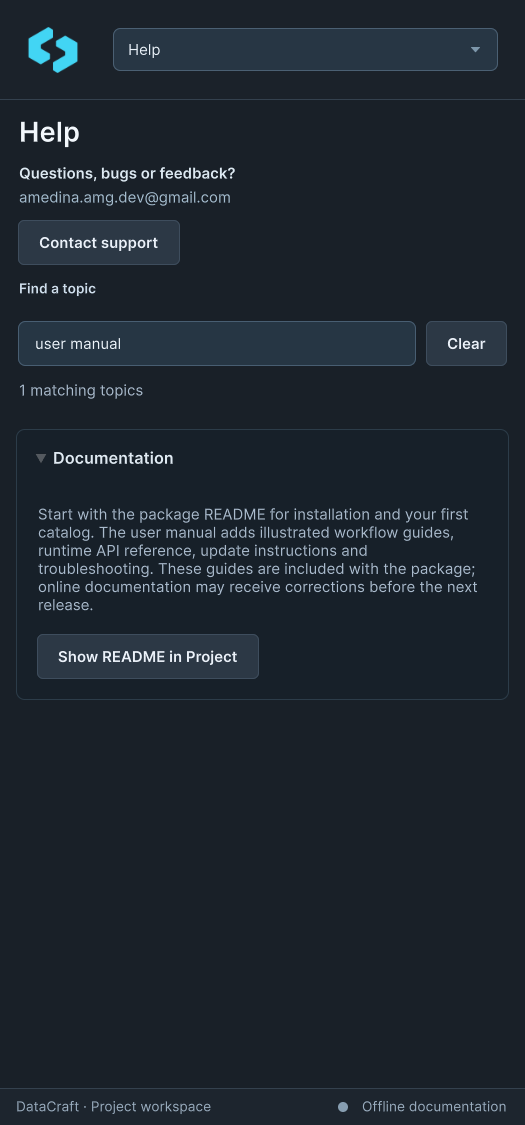
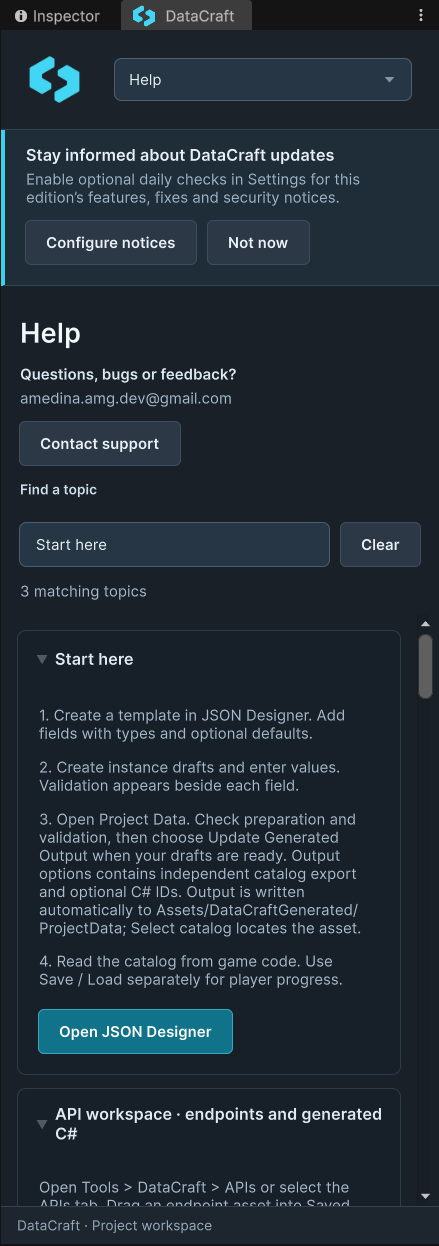
Document DataCraft 1.2.1 fixes and refreshed customer guides

diff --git a/docs/CHANGELOG.md b/docs/CHANGELOG.md
@@ -1,14 +1,34 @@
 # Changelog
 
-## Unreleased — documentation refresh
+## Unreleased
 
-- Customer-first README, guided first catalog and task-based user manual with current real screenshots.
-- Expanded API, import/export, recovery, data-location, update and troubleshooting guides.
-- Offline customer documentation separated from development reports, roadmap and contribution instructions.
-- Public documentation links and a reproducible documentation-only mirror.
-- Corrected stale optional-example instructions.
+No changes recorded after 1.2.1.
 
-Documentation preparation for a future package. Existing 1.2.0 deliveries/submission remain unchanged; no new version or store availability is announced here.
+## 1.2.1 — Documentation and reliability · 2026-10-28
+
+Package prepared for itch.io and a later Unity Asset Store submission. Availability is announced separately by each purchase store; a prepared package is not an approved download.
+
+### Documentation
+
+- Reorganized the README and offline Help around the tasks a new user needs: first catalog, authoring, imports/exports, player saves and HTTP APIs.
+- Added a step-by-step first-catalog walkthrough, clearer expected results, data locations, recovery guidance and current real Unity screenshots.
+- Expanded API, transfer, update and troubleshooting guides; corrected optional-example instructions and automatic output paths for Project Data and generated API code.
+- Separated customer guides from maintainer reports and made the public documentation mirror reproducible and self-contained.
+
+### Fixes
+
+- Accept exactly representable large integer values in Float imports and preserve them in Float-list/template transfer round trips.
+- Avoid generated instance ID constants colliding with their enclosing template class, including when a template and instance share a name.
+- Reject special C# field keywords, the reserved Enum option `value__`, and the API client name `FetchAsync` before they produce invalid generated code.
+- Reject malformed JSON Unicode escapes and unmatched surrogate pairs consistently in authoring imports.
+- Prevent installing/opening Stratus during Play Mode before copying files or replacing the scene.
+
+### Generated credential handling
+
+- Detect sensitive API-key/token query names even when their placeholder uses a generic alias, so generated gameplay components do not expose these values as serialized Inspector fields. Supply credentials at runtime.
+- If an earlier generated component serialized a credential, remove that value from project assets/history as appropriate and rotate the credential if it was shared. This fix does not automatically rewrite existing generated scripts.
+
+Runtime APIs, existing IDs and serialized save/catalog formats are unchanged. Existing projects do not require a data migration. Back up before updating and regenerate affected ID/API code when relevant. Optional examples retain their documented additional requirements.
 
 ## 1.2.0 — Updates through your purchase store
 

diff --git a/docs/guides/HttpApi.md b/docs/guides/HttpApi.md
@@ -20,7 +20,7 @@ Test values stay in memory. Inspect status, response size and errors. Cancellati
 
 ## 3. Review the C# client
 
-On **C# client**, inspect inferred names/types and generate the DTO/static client to your game's chosen scripts folder. A single sample cannot prove every nullable/optional/polymorphic provider case. Check the provider's full schema and compile before use. Lists/dictionaries, nested objects, properties and JSON.NET attributes belong to this ordinary-JSON mapping workflow.
+On **C# client**, enter a unique client name starting with A–Z (except the reserved method name `FetchAsync`) and choose **Preview C#**. Inspect the inferred names/types, then choose **Create C# files**. The client is written to `Assets/DataCraftApi/Generated/YourClient.cs`; **Include a gameplay component** also writes `Assets/DataCraftApi/Examples/YourClientGameplay.cs`. These destinations are automatic. Existing files/types are never overwritten: choose a new client name when generating a revised contract, then update your game references deliberately. A single sample cannot prove every nullable/optional/polymorphic provider case. Check the provider's full schema and compile before use. Lists/dictionaries, nested objects, properties and JSON.NET attributes belong to this ordinary-JSON mapping workflow.
 
 ![Formatted response preview](Screenshots/ux-api-response-formatted.jpg)
 
@@ -30,7 +30,7 @@ Use `JsonProperty` for differing names and `Required.Always` only for genuinely 
 
 ## 4. Use it in your game
 
-On **Use in your game**, review/generate the optional MonoBehaviour, attach it to an object and assign the saved endpoint. A generated static client is not a component. Invoke Fetch explicitly and adapt `ApplyResponse` to your game's behavior. Stratus and Helio show complete examples with loading, failure and cancellation feedback.
+On **Use in your game**, review/generate the optional MonoBehaviour, attach it to an object and assign the saved endpoint. A generated static client is not a component. Invoke Fetch explicitly and adapt `ApplyResponse` to your game's behavior. Supply credentials through `SetHeaders` / `SetParameters` at runtime. A placeholder used in a recognized credential query (such as `api_key={value}`) is excluded from serialized Inspector fields even when its name is generic. Stratus and Helio show complete examples with loading, failure and cancellation feedback.
 
 For a direct integration, `DataCraftApi.GetAsync<T>` performs a typed GET; `DataCraftApi.SendAsync<T>` accepts an explicit request; `endpoint.SendAsync<T>` applies saved configuration and its response path. [API reference](ApiReference.md) lists the entry points.
 

diff --git a/docs/guides/Authoring.md b/docs/guides/Authoring.md
@@ -16,7 +16,7 @@ Create a blank template with **+** or the empty-state action. Edit its name, cat
 
 ## Define fields
 
-Use unique C#-style names: ASCII letter/underscore first, then letters, digits or underscores. Names are unique ignoring case; reserved C# keywords are rejected. Field IDs stay stable when a name changes.
+Use unique C#-style names: ASCII letter/underscore first, then letters, digits or underscores. Names are unique ignoring case; reserved C# keywords, including the special `__arglist`/`__makeref`/`__reftype`/`__refvalue` forms, are rejected. Field IDs stay stable when a name changes.
 
 | Type | Values and rules |
 | --- | --- |
@@ -28,11 +28,11 @@ Use unique C#-style names: ASCII letter/underscore first, then letters, digits o
 | Template Reference | Stable link to an instance of the chosen target template |
 | List | One ordered level of a supported scalar/Enum/reference type |
 
-**Use default value** stores a default; it does not make a field Required. **Required when creating an instance** adds draft validation. Required lists need at least one element. Defaults are copied for new bindings/instances; changing a default does not rewrite existing values.
+**Use default value** stores a default; it does not make a field Required. **Required when creating an instance** adds draft validation. Required Strings cannot be empty or whitespace-only. Required lists need at least one element. Defaults are copied for new bindings/instances; changing a default does not rewrite existing values.
 
 ### Enum options
 
-Add named options, then choose a default if needed. Renaming/reordering preserves each option's numeric code. **Edit codes (advanced)** exposes numeric editing; use deliberate stable codes for game C# Enums. Removing an option leaves affected values unresolved until corrected. There are at most 128 options, paged eight at a time.
+Add named options, then choose a default if needed. Renaming/reordering preserves each option's numeric code. **Edit codes (advanced)** exposes numeric editing; use deliberate stable codes for game C# Enums. Removing an option leaves affected values unresolved until corrected. The name `value__` is reserved by C# for Enum storage and cannot be an option. There are at most 128 options, paged eight at a time.
 
 ### Lists and references
 

diff --git a/docs/guides/ImportExport.md b/docs/guides/ImportExport.md
@@ -18,7 +18,7 @@ Player save files use a separate envelope. Do not import them as template packag
 
 Choose a local JSON array of flat objects or comma-delimited CSV with a header. Review the inferred fields, names, types, Required/default options, metadata and instance naming. Choose template only or template plus rows before confirming.
 
-Inference covers String, Integer, Float and Boolean. It does not invent Enum, List or reference schemas. Keep leading-zero identifiers and ambiguous columns as String. Acquisition limits are 8 MiB, 10,000 rows and 128 columns; unsupported nested values are not silently flattened.
+Inference covers String, Integer, Float and Boolean. It does not invent Enum, List or reference schemas. Keep leading-zero identifiers and ambiguous columns as String. Acquisition limits are 8 MiB, 10,000 rows and 128 columns; unsupported nested values are not silently flattened. Files must contain valid UTF-8; JSON Unicode escapes need four hexadecimal digits and paired surrogates. Malformed text is rejected before import, including in ignored JSON branches.
 
 ## Import rows into a template
 
@@ -47,6 +47,7 @@ Map `@instance` to Instance name. It is a display name, not a stable ID. Map `na
 
 - JSON missing/null mapped values become unset. Unmapped fields follow the applicable new/existing-instance policy.
 - In DataCraft CSV, an unquoted empty cell is unset; quoted empty String `""` is explicitly empty. Spreadsheet software can normalize quoting: inspect the actual preview after re-saving.
+- Integer-to-Float JSON mapping requires an exactly representable value (for example `16777216` is valid; `16777217` is rejected). Decimal/exponent Float values use finite 32-bit precision; values that underflow to zero are rejected.
 - Enum values use exact, case-sensitive option **names**, not numeric codes.
 - References use exact names of destination instances already present in the chosen target template; raw GUIDs and missing destinations are rejected.
 - Lists use JSON arrays. In CSV the array is held in one correctly quoted cell. No nested lists or null elements.

diff --git a/docs/guides/ProjectData.md b/docs/guides/ProjectData.md
@@ -11,11 +11,11 @@ Project Data turns validated Editor drafts into a **read-only runtime snapshot**
 | State | Next step |
 | --- | --- |
 | Blocking errors | Open the reported template/instance and correct the issue |
-| Ready, not exported | Choose an output destination under your game's `Assets` |
+| Ready, not exported | Choose **Update Generated Output** or **Export Project Data** in Output options |
 | Update needed | Choose **Update Generated Output** after reviewing drafts |
 | Up to date | Assign/use the current catalog in game code |
 
-Warnings/information remain reviewable. Errors block the project-wide export; no partial replacement is published. **Output options · Catalog & C# IDs** contains the independent output actions. C# IDs generate constants for real authored identities, not DTO or Enum declarations.
+Warnings/information remain reviewable. Errors block the project-wide export; no partial replacement is published. **Output options · Catalog & C# IDs** contains the independent output actions. The workspace writes the catalog to `Assets/DataCraftGenerated/ProjectData/DataCraftProjectCatalog.asset`, shards to its `Shards` folder and optional C# IDs to its `Code` folder. It does not prompt for a destination. **Select catalog** locates the created asset. Keep these generated files and their `.meta` files together; the workspace and build preflight inspect this location. C# IDs generate constants for real authored identities, not DTO or Enum declarations. Names that collide after conversion to C# symbols (including a template and its instance having the same name) receive stable ID suffixes; use the generated symbol rather than guessing it.
 
 ## Match your C# data to the schema
 

diff --git a/README.md b/README.md
@@ -2,6 +2,8 @@
 
 **Design game data, save player progress and use JSON APIs in Unity.**
 
+**DataCraft 1.2.1 — documentation and reliability:** the next package is prepared with the corrections listed in the [changelog](docs/CHANGELOG.md). itch.io and Unity Asset Store availability are announced separately after each exact file is downloadable.
+
 [Start here: user documentation](docs/guides/index.md) · [Installation](docs/INSTALLATION.md) · [Release notes](docs/CHANGELOG.md) · [Support](docs/SUPPORT.md)
 
 ![DataCraft workspace](docs/guides/Screenshots/ux-overview-wide.jpg)
@@ -21,7 +23,7 @@
 
 ## Documentation and downloads
 
-These public guides cover the DataCraft 1.2 workflow and receive documentation corrections independently of package releases. The package includes an offline guide for its installed version; later work is labelled **Unreleased** in the changelog. Real Unity screenshots use example projects; names/counts are not automatically installed content.
+These public guides cover the DataCraft 1.2.1 workflow and receive documentation corrections independently of package releases. The package includes an offline guide for its installed version; later work is labelled **Unreleased** in the changelog. Real Unity screenshots use example projects; names/counts are not automatically installed content.
 
 This repository contains user documentation, public signed release metadata and publisher tools. It contains **no commercial package source, customer data or downloadable asset archive**. Obtain the asset/update through your purchase store. Retail editions follow their own store's entitlement and availability; a pending Unity review is not an approved downloadable release.
 

diff --git a/docs/guides/UserGuide.md b/docs/guides/UserGuide.md
@@ -29,7 +29,7 @@ Enable **Set value** where needed. Zero, false, empty text and unset are distinc
 
 ## 3. Publish the catalog
 
-Open **Project Data**. Review any validation issues and choose **Update Generated Output**, or the initial export action under **Output options · Catalog & C# IDs**. Select a game-owned output location under `Assets` when prompted.
+Open **Project Data**. Review any validation issues and choose **Update Generated Output**, or the initial export action under **Output options · Catalog & C# IDs**. The workspace writes to **`Assets/DataCraftGenerated/ProjectData`** automatically; there is no destination dialog. Wait for the export to finish. Expand **Output options · Catalog & C# IDs** and choose **Select catalog**, or find `DataCraftProjectCatalog.asset` in that folder in the Project window.
 
 ![Readiness, validation and explicit output update](Screenshots/ux-project-data-wide.jpg)
 
@@ -39,7 +39,7 @@ Select the generated `DataCraftProjectCatalog` asset. In Designer use **Actions 
 
 ## 4. Read the weapon in Play Mode
 
-Create `WeaponReader.cs` in your game's scripts, add this component to a scene object, assign the generated catalog and paste the two copied IDs into the Inspector.
+In the Project window create `Assets/Game/WeaponReader.cs` (create the `Game` folder if needed), replace its contents with the following code and wait for compilation. In the Hierarchy create an empty GameObject and add **WeaponReader** with **Add Component**. Drag `Assets/DataCraftGenerated/ProjectData/DataCraftProjectCatalog.asset` into its **Catalog** field, then paste the copied Weapon and Iron Sword IDs into **Template Id** and **Instance Id**.
 
 ```csharp
 using System;

diff --git a/docs/guides/DataAndBackups.md b/docs/guides/DataAndBackups.md
@@ -9,8 +9,8 @@ The tool package, Editor source data, generated gameplay data and player saves h
 | Template definitions | `ProjectSettings/DataCraftTemplates.asset` | Version/control or back up as project authoring |
 | Instance drafts | `ProjectSettings/DataCraftInstances.json` | Keep with the matching templates |
 | Saved mappings | Project-local mapping configuration shown in Designer | Keep with authoring; it is not source rows or credentials |
-| Generated catalog/shards and optional C# IDs | Your chosen game-owned location under `Assets` | Preserve GUIDs/references; refresh explicitly in Project Data |
-| API endpoints and generated game code | Your chosen game-owned assets/scripts | Back up and review as game code |
+| Generated catalog/shards and optional C# IDs | `Assets/DataCraftGenerated/ProjectData` (`Shards` and `Code` subfolders) | Preserve GUIDs/references; refresh explicitly in Project Data |
+| API endpoints and generated game code | Endpoint: chosen asset under `Assets`; client: `Assets/DataCraftApi/Generated`; component: `Assets/DataCraftApi/Examples` | Back up and review as game code |
 | Runtime/player saves | `Application.persistentDataPath/DataCraft` | Back up independently; Editor/device/Player paths may differ |
 | Original Files edit backups | `.backups` under the local save folder | Exact pre-edit bytes; no automatic pruning/restore |
 | Schema migration backups | `ProjectSettings/DataCraftMigrationBackups` | Preserve before manual recovery |

diff --git a/docs/guides/Examples.md b/docs/guides/Examples.md
@@ -2,7 +2,7 @@
 
 [Documentation home](index.md) · [First catalog walkthrough](UserGuide.md)
 
-Open **Tools → DataCraft → Samples and Quick Start**, or **Explore demos** on Overview. Select an example and follow its install/open action. Package Manager also exposes the sample sources; do not import multiple copies through different routes.
+Open **Tools → DataCraft → Samples and Quick Start**, or **Explore demos** on Overview. Stop Play Mode, select an example and follow its install/open action. Package Manager also exposes the sample sources; do not import multiple copies through different routes.
 
 Core installation does not copy examples into Assets. Samples do not change project input, renderer or build settings automatically, and do not replace your templates/output. Back up modifications before importing another copy with shared GUIDs.
 

diff --git a/docs/README.md b/docs/README.md
@@ -4,6 +4,8 @@
 
 **Design game data, save player progress and use JSON APIs in Unity.**
 
+**Version 1.2.1 — documentation and reliability.** Clearer first steps, stricter import validation and safer generated C# code. [Read the changelog](CHANGELOG.md). Store availability follows the announcements for your purchase edition.
+
 DataCraft brings these workflows into one Editor workspace. Define typed templates and instances, publish a read-only catalog for gameplay, save mutable progress locally, or turn an HTTP JSON response into reviewed C# code.
 
 **Start with [Installation](INSTALLATION.md), then follow [Your first game data](guides/UserGuide.md).** Open **Tools → DataCraft → Open DataCraft** after installation. The **Help** tab is searchable and works offline.
